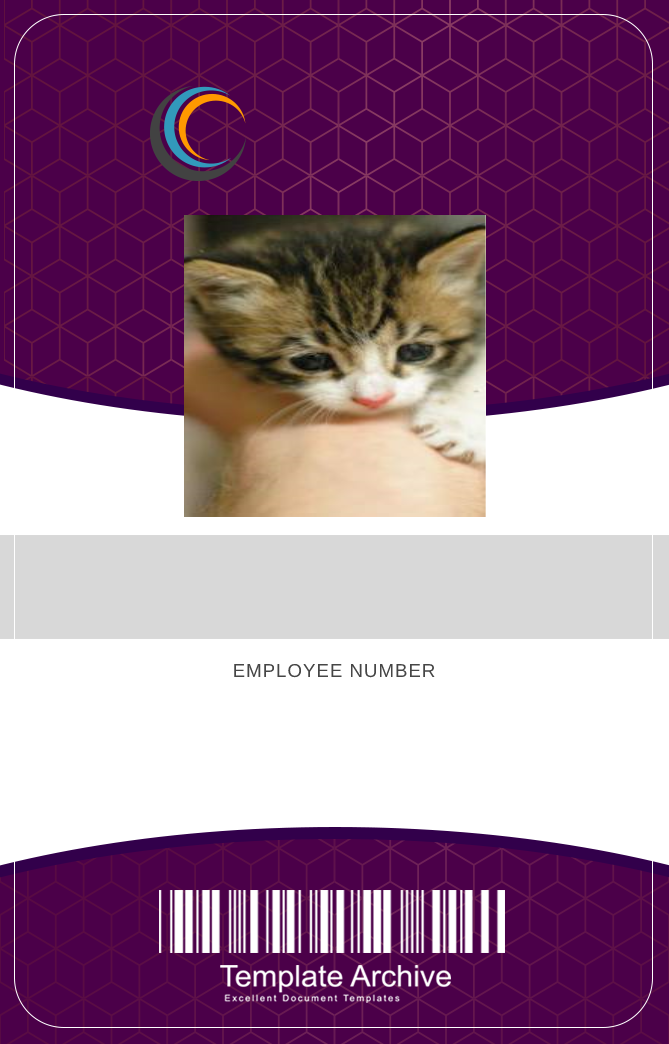
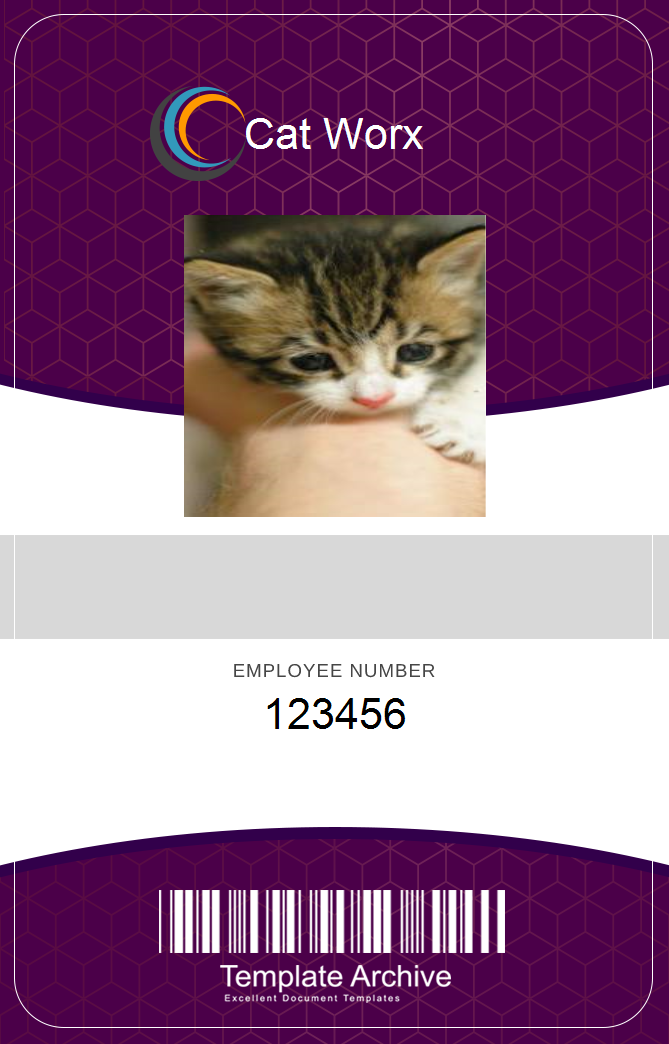
successfully writing the company name and id number onto the badge template

Changed region(s): [[0.3587, 0.092, 0.6278, 0.1533], [0.3886, 0.6437, 0.6278, 0.705]]

diff --git a/Util.cs b/Util.cs
@@ -64,6 +64,15 @@ namespace CatWorx.BadgeMaker
             int EMPLOYEE_ID_WIDTH = BADGE_WIDTH;
             int EMPLOYEE_ID_HEIGHT = 100;
 
+            StringFormat format = new StringFormat();
+            format.Alignment = StringAlignment.Center;
+            int FONT_SIZE = 32;
+            Font font = new Font("Arial", FONT_SIZE);
+            Font monoFont = new Font("Courier New", FONT_SIZE);
+
+            SolidBrush brush = new SolidBrush(Color.Black);
+
+        
             // instance of WebClient is disposed after code in the block has run
             using (WebClient client = new WebClient())
             {
@@ -78,8 +87,35 @@ namespace CatWorx.BadgeMaker
                     Graphics graphic = Graphics.FromImage(badge);
                     graphic.DrawImage(background, new Rectangle(0,0, BADGE_WIDTH, BADGE_HEIGHT));
                     graphic.DrawImage(photo, new Rectangle(PHOTO_START_X, PHOTO_START_Y, PHOTO_WIDTH, PHOTO_HEIGHT));
-                   
+                    graphic.DrawString(
+                        employees[i].GetCompanyName(),
+                        font,
+                        new SolidBrush(Color.White),
+                        new Rectangle(
+                            COMPANY_NAME_START_X,
+                            COMPANY_NAME_START_Y,
+                            BADGE_WIDTH,
+                            COMPANY_NAME_WIDTH
+                        ),
+                        format
+                    );
 
+                     graphic.DrawString(
+                        employees[i].GetId().ToString(),
+                        font,
+                        new SolidBrush(Color.Black),
+                        new Rectangle(
+                            EMPLOYEE_ID_START_X,
+                            EMPLOYEE_ID_START_Y,
+                            BADGE_WIDTH,
+                            EMPLOYEE_ID_WIDTH
+                        ),
+                        format
+                    );
+
+
+                   
+                    badge.Save("data/employeeBadge.png");
                 }
 
             }

diff --git a/Employee.cs b/Employee.cs
@@ -24,5 +24,9 @@ namespace CatWorx.BadgeMaker
         public string GetPhotoUrl() {
             return PhotoUrl;
         }
+
+        public string GetCompanyName() {
+            return "Cat Worx";
+        }
     }
 }
